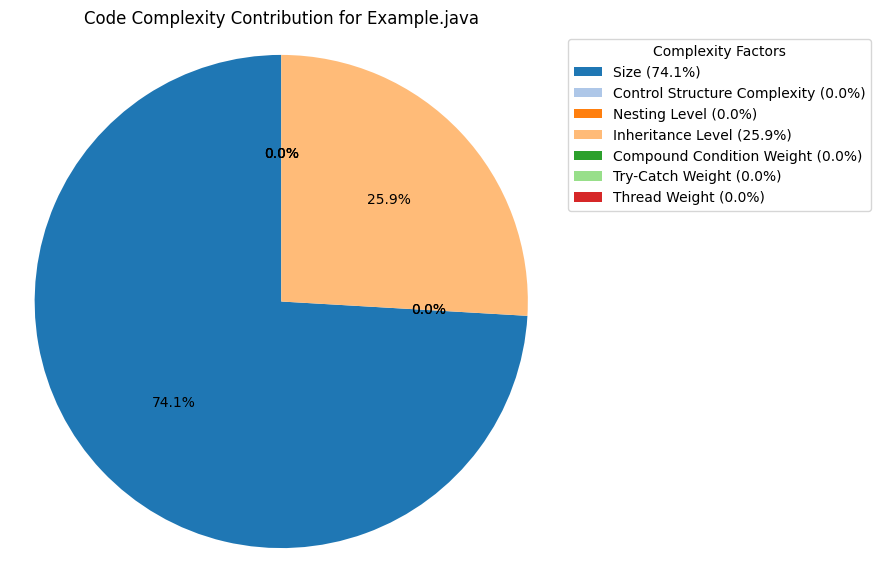
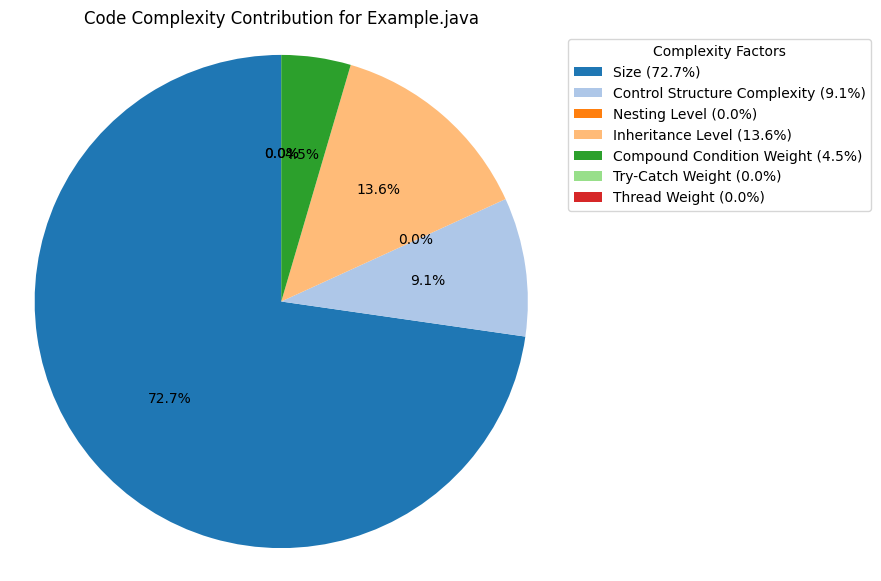
changes commited

diff --git a/Drinks/complexity_calculator.py b/Drinks/complexity_calculator.py
@@ -1,7 +1,9 @@
 import logging
 import os
 import re
-
+from pyparsing import (
+    Word, alphas, alphanums, Keyword, Suppress, Optional, Group, ZeroOrMore, Forward, OneOrMore
+)
 import matplotlib
 import matplotlib.pyplot as plt
 import numpy as np
@@ -80,42 +82,97 @@ def calculate_control_structure_complexity(line):
     return wc
 
 
-def calculate_nesting_level(line, current_nesting, in_control_structure, control_structure_stack):
-    # Define control structures that affect nesting
-    control_structures = ['if', 'else', 'for', 'while', 'switch', 'try']
+# def calculate_nesting_level(line, current_nesting, in_control_structure, control_structure_stack):
+#     # Define control structures that affect nesting
+#     control_structures = ['if', 'else', 'for', 'while', 'switch', 'try']
+#
+#     # Initialize Wn (nesting weight)
+#     wn = 0
+#
+#     # Check if the line starts a control structure
+#     if any(cs in line for cs in control_structures):
+#         # Check for 'else if' (or 'else' and 'if' on the same line)
+#         if 'else if' in line:
+#             wn = current_nesting  # Weight for 'else if'
+#         elif 'else' in line:
+#             wn = 1  # Weight for 'else'
+#         else:
+#             current_nesting += 1  # Increase nesting level for 'if'
+#             control_structure_stack.append(current_nesting)  # Push current nesting level to the stack
+#             wn = current_nesting  # Weight for 'if'
+#
+#         in_control_structure = True  # We're inside a control structure
+#         return current_nesting, in_control_structure, control_structure_stack, wn
+#
+#     # Check for closing '}' of control structure
+#     if '}' in line and control_structure_stack:
+#         current_nesting = control_structure_stack.pop() - 1  # Pop the last nesting level
+#         wn = current_nesting + 1  # Wn based on the new current nesting level
+#
+#         # If stack is empty after popping, we're not in a control structure anymore
+#         in_control_structure = len(control_structure_stack) > 0
+#         return current_nesting, in_control_structure, control_structure_stack, wn
+#
+#     # If we encounter a statement at the same nesting level as the control structure
+#     if in_control_structure:
+#         wn = current_nesting  # Assign weight based on the current nesting level
+#
+#     return current_nesting, in_control_structure, control_structure_stack, wn
 
-    # Initialize Wn (nesting weight)
-    wn = 0
 
-    # Check if the line starts a control structure
-    if any(cs in line for cs in control_structures):
-        # Check for 'else if' (or 'else' and 'if' on the same line)
-        if 'else if' in line:
-            wn = current_nesting  # Weight for 'else if'
-        elif 'else' in line:
-            wn = 1  # Weight for 'else'
-        else:
-            current_nesting += 1  # Increase nesting level for 'if'
-            control_structure_stack.append(current_nesting)  # Push current nesting level to the stack
-            wn = current_nesting  # Weight for 'if'
+def calculate_nesting_level(java_code):
+    """
+    Calculates the nesting level of control structures (if-else, for, while, do-while)
+    in Java code line by line, ignoring class and method declarations.
+    """
+    # Remove comments from the Java code
+    java_code = remove_comments(java_code)
+    lines = java_code.splitlines()
 
-        in_control_structure = True  # We're inside a control structure
-        return current_nesting, in_control_structure, control_structure_stack, wn
+    # Control structure keywords to consider
+    control_keywords = ['if', 'else', 'for', 'while', 'do']
 
-    # Check for closing '}' of control structure
-    if '}' in line and control_structure_stack:
-        current_nesting = control_structure_stack.pop() - 1  # Pop the last nesting level
-        wn = current_nesting + 1  # Wn based on the new current nesting level
+    # State variables to track nesting level
+    current_nesting = 0
+    control_structure_stack = []  # Stack to track nesting levels
+    nesting_levels = []
 
-        # If stack is empty after popping, we're not in a control structure anymore
-        in_control_structure = len(control_structure_stack) > 0
-        return current_nesting, in_control_structure, control_structure_stack, wn
+    # Regular expressions for detecting control structures
+    control_regex = re.compile(r'\b(if|else if|else|for|while|do)\b')
+    open_brace_regex = re.compile(r'\{')  # Opening brace
+    close_brace_regex = re.compile(r'\}')  # Closing brace
 
-    # If we encounter a statement at the same nesting level as the control structure
-    if in_control_structure:
-        wn = current_nesting  # Assign weight based on the current nesting level
+    for line_no, line in enumerate(lines, start=1):
+        stripped_line = line.strip()
 
-    return current_nesting, in_control_structure, control_structure_stack, wn
+        # Skip empty lines
+        if not stripped_line:
+            nesting_levels.append((line_no, stripped_line, current_nesting))
+            continue
+
+        # Check if the line contains a control structure
+        control_match = control_regex.search(stripped_line)
+        if control_match:
+            # Increment nesting level for a new control structure
+            current_nesting += 1
+            control_structure_stack.append(current_nesting)
+
+        # Record the current nesting level for the line
+        nesting_levels.append((line_no, stripped_line, current_nesting))
+
+        # Adjust nesting level based on braces
+        # Count the opening and closing braces in the line
+        opening_braces = len(open_brace_regex.findall(stripped_line))
+        closing_braces = len(close_brace_regex.findall(stripped_line))
+
+        # Adjust the nesting level for each closing brace
+        if closing_braces > 0:
+            for _ in range(closing_braces):
+                if control_structure_stack:
+                    control_structure_stack.pop()
+                    current_nesting = len(control_structure_stack)
+
+    return nesting_levels
 
 
 """
@@ -879,6 +936,10 @@ def calculate_code_complexity_multiple_files(file_contents):
 
         # nesting_levels  = calculate_nesting_level1(content)
         # display_nesting_levels(nesting_levels)
+        nesting_levels = calculate_nesting_level(content)
+        nesting_level_dict = {line[0]: line[2] for line in nesting_levels}
+
+        print("nesting_levels----------------------", nesting_levels)
 
         # Calculate MPC and CBO for this file
         cbo_value = calculate_cbo(class_references).get(class_name, 0)
@@ -921,13 +982,15 @@ def calculate_code_complexity_multiple_files(file_contents):
                 ])
                 continue
 
+            nesting_level = nesting_level_dict.get(line_number, 0)
+
             # Calculate control structure complexity
             control_structure_complexity = calculate_control_structure_complexity(line)
 
             # Calculate nesting level
-            current_nesting, in_control_structure, control_structure_stack, wn = calculate_nesting_level(
-                line, current_nesting, in_control_structure, control_structure_stack
-            )
+            # current_nesting, in_control_structure, control_structure_stack, wn = calculate_nesting_level(
+            #     line, current_nesting, in_control_structure, control_structure_stack
+            # )
 
             # Calculate inheritance level
             # current_inheritance = calculate_inheritance_level(line, current_inheritance)
@@ -951,7 +1014,7 @@ def calculate_code_complexity_multiple_files(file_contents):
                 'size': size,
                 'tokens': tokens,
                 'control_structure_complexity': control_structure_complexity,
-                'nesting_level': wn,
+                'nesting_level': nesting_level,
                 'inheritance_level': current_inheritance,
                 'compound_condition_weight': compound_condition_weight,
                 'try_catch_weight': try_catch_weight,
@@ -960,7 +1023,7 @@ def calculate_code_complexity_multiple_files(file_contents):
 
             # Calculate the total complexity for this line (this could be the sum of all the metrics)
             total_complexity = (
-                    size + control_structure_complexity + 0 + current_inheritance +
+                    size + control_structure_complexity + nesting_level + current_inheritance +
                     compound_condition_weight + try_catch_weight + thread_weight
             )
 
@@ -974,7 +1037,7 @@ def calculate_code_complexity_multiple_files(file_contents):
                 size,
                 ', '.join(tokens),
                 control_structure_complexity,
-                wn,
+                nesting_level,
                 current_inheritance,
                 compound_condition_weight,
                 try_catch_weight,
@@ -1026,6 +1089,11 @@ def calculate_code_complexity_by_method(content, method_inheritance, class_name)
     method_name = None
     method_lines = []
 
+    nesting_levels = calculate_nesting_level(content)
+    nesting_level_dict = {line[0]: line[2] for line in nesting_levels}
+
+    print("nesting_levels----------------------", nesting_levels)
+
     # Split content by line and analyze each one
     for line in content.splitlines():
         # Detect method declarations (example pattern; adapt as needed)
@@ -1033,7 +1101,7 @@ def calculate_code_complexity_by_method(content, method_inheritance, class_name)
         if match:
             # If we're already in a method, calculate its complexity
             if method_name:
-                methods[method_name] = calculate_complexity_for_method(method_lines, method_inheritance, class_name)
+                methods[method_name] = calculate_complexity_for_method(method_lines, method_inheritance, class_name, nesting_level_dict)
             # Start a new method
             method_name = match.group(1)
             method_lines = [line]
@@ -1043,13 +1111,13 @@ def calculate_code_complexity_by_method(content, method_inheritance, class_name)
 
     # Final method complexity calculation
     if method_name:
-        methods[method_name] = calculate_complexity_for_method(method_lines, method_inheritance, class_name)
+        methods[method_name] = calculate_complexity_for_method(method_lines, method_inheritance, class_name, nesting_level_dict)
 
     return methods
 
 
 # Helper function to calculate complexity for a method based on lines of code
-def calculate_complexity_for_method(lines, method_inheritance, class_name):
+def calculate_complexity_for_method(lines, method_inheritance, class_name, nesting_level_dict):
     size = 0
     control_structure_complexity = 0
     nesting_level = 0
@@ -1058,12 +1126,13 @@ def calculate_complexity_for_method(lines, method_inheritance, class_name):
     thread_weight = 0
     current_inheritance_sum = 0
     current_class = class_name
+    total_nesting = 0
 
     current_nesting = 0
     control_structure_stack = []
 
     # Analyze each line within the method
-    for line in lines:
+    for line_number, line in enumerate(lines, start=1):
         # Calculate size (token count) for this line
         line_size, tokens = calculate_size(line)
 
@@ -1071,6 +1140,11 @@ def calculate_complexity_for_method(lines, method_inheritance, class_name):
             continue  # Skip this line if size is 0
 
         total_inheritance = method_inheritance[current_class]
+
+        nesting_level = nesting_level_dict.get(line_number, 0)
+        total_nesting += nesting_level
+
+        print("total_nesting))))))))))))))))))))))))))))))))))", total_nesting)
 
         size += line_size
 
@@ -1080,11 +1154,11 @@ def calculate_complexity_for_method(lines, method_inheritance, class_name):
         control_structure_complexity += calculate_control_structure_complexity(line)
 
         # Calculate nesting level and control structures
-        current_nesting, _, control_structure_stack, wn = calculate_nesting_level(
-            line, current_nesting, False, control_structure_stack
-        )
+        # current_nesting, _, control_structure_stack, wn = calculate_nesting_level(
+        #     line, current_nesting, False, control_structure_stack
+        # )
         # wn =calculate_nesting_level(line)
-        nesting_level += wn
+        # nesting_level += wn
 
         # Compound condition weight
         compound_condition_weight += calculate_compound_condition_weight(line)
@@ -1097,7 +1171,7 @@ def calculate_complexity_for_method(lines, method_inheritance, class_name):
 
     # Sum up the complexity metrics for this method
     total_complexity = (
-            size + control_structure_complexity + nesting_level + current_inheritance_sum +
+            size + control_structure_complexity + total_nesting + current_inheritance_sum +
             compound_condition_weight + try_catch_weight + thread_weight
     )
 
